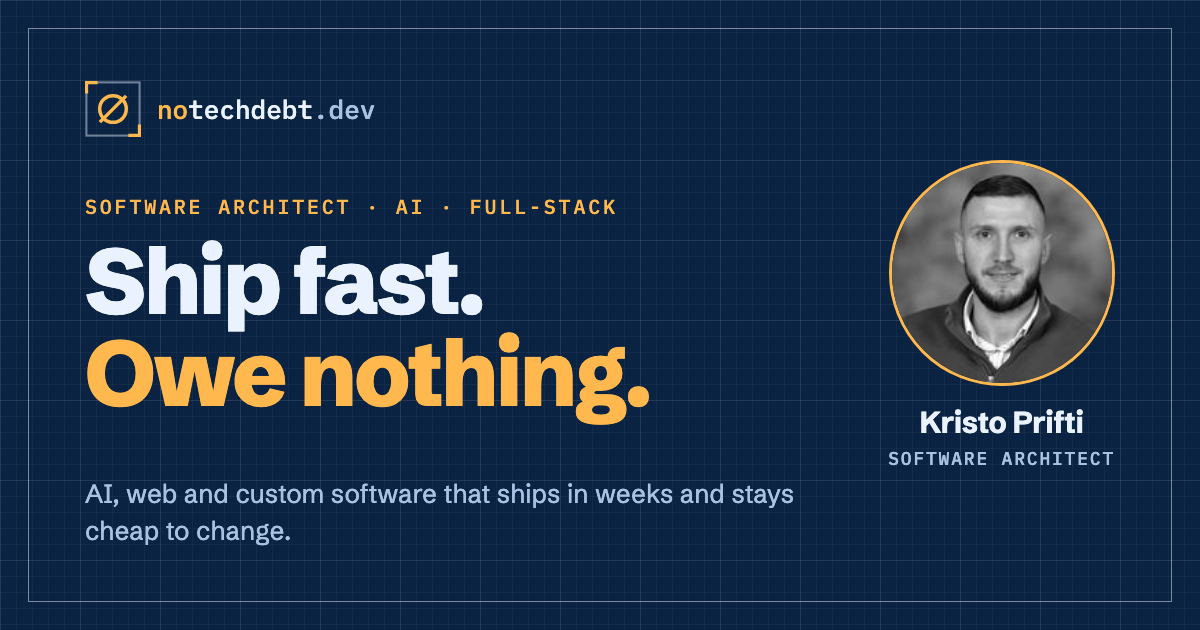
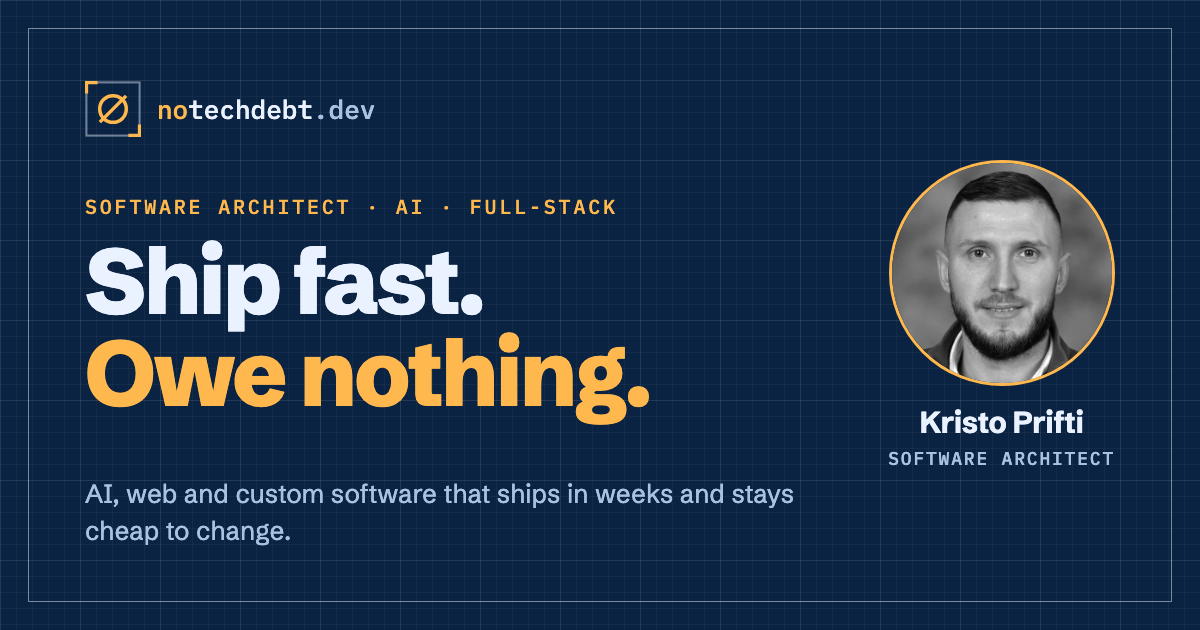
Rework About section, sharper portrait
- About: new heading, spec table (experience, role, built, works), two
  first-person paragraphs and four opinions under "Things I'll argue about"
- Person structured data gains a description and more skills
- New portrait in four sizes: 640x800 for About, 160 square for the hero
  byline, 512 square for structured data, and a regenerated social preview

Changed region(s): [[0.74, 0.2714, 0.925, 0.6032]]

diff --git a/index.html b/index.html
@@ -67,10 +67,11 @@
       "url": "https://notechdebt.dev/",
       "image": "https://notechdebt.dev/img/kristo-prifti.jpg",
       "jobTitle": "Software Architect",
+      "description": "Software architect with 12 years of hands-on and team-lead experience building SaaS and B2B platforms, AI features, e-commerce and payments, mobile apps, and rescuing legacy systems.",
       "worksFor": { "@id": "https://notechdebt.dev/#org" },
       "email": "mailto:kristo@notechdebt.dev",
       "sameAs": ["https://www.linkedin.com/in/kristoprifti/"],
-      "knowsAbout": ["Software architecture", "Technical debt", "Artificial intelligence", "Machine learning", "Full-stack web development", "MVP development", "Custom ERP software", "E-commerce", "three.js", "React", "Next.js", "Node.js", "Python", "PostgreSQL", "Search engine optimization"]
+      "knowsAbout": ["Software architecture", "Technical debt", "Artificial intelligence", "Machine learning", "Full-stack web development", "MVP development", "Custom ERP software", "SaaS platforms", "E-commerce", "Payments", "Mobile app development", "Legacy system modernization", "three.js", "React", "Next.js", "Node.js", "Python", "PostgreSQL", "Search engine optimization"]
     },
     {
       "@type": "Organization",
@@ -140,7 +141,7 @@
         <div style="display:flex;flex-direction:column;gap:26px">
           <span class="pill"><span class="dot"></span>AVAILABLE FOR NEW PROJECTS</span>
           <h1 class="h1">Ship fast. <span style="color:var(--acc)">Owe nothing.</span></h1>
-          <div class="byline"><img src="/img/kristo-prifti.jpg" width="160" height="160" alt="Kristo Prifti"><span><b>Kristo Prifti</b>Software architect. Refactoring the future, one less TODO at a time.</span></div>
+          <div class="byline"><img src="/img/kristo-prifti-160.jpg" width="160" height="160" alt="Kristo Prifti"><span><b>Kristo Prifti</b>Software architect. Refactoring the future, one less TODO at a time.</span></div>
           <p class="lede">Teams building AI products and custom software usually come to me with two questions: how should we build this, and why is it taking so long. I like answering both, and I'd rather show you a working version the next morning than talk about it.</p>
           <div style="display:flex;flex-wrap:wrap;gap:14px">
             <a class="btn btn-acc" href="#services">Work with me →</a>
@@ -354,15 +355,29 @@
   <section class="sec" id="about">
     <div class="wrap">
       <div class="sec-head" data-sr="up">
-        <div><span class="label">007 · ABOUT</span><h2 class="h2">The architect behind notechdebt.</h2></div>
+        <div><span class="label">007 · ABOUT</span><h2 class="h2">Twelve years of shipping. Still allergic to debt.</h2></div>
       </div>
       <div class="rule" data-sr="line"></div>
-      <div class="about" data-sr="up">
-        <img src="/img/kristo-prifti.jpg" width="160" height="160" alt="Portrait of Kristo Prifti" loading="lazy" decoding="async">
-        <div class="about-text">
-          <p>I'm Kristo Prifti, a software architect. I design and build AI products, web apps and custom business software, and I care about how they age as much as how fast they ship.</p>
-          <p>Since 2022 I've shipped nine products that are still live today: my own SaaS and AI tools, and the systems that run real businesses, from a custom ERP to an online store selling in two markets. Each one was built so its owners can change it without calling me.</p>
-          <p>notechdebt is how I work: proven technology, small modules, decisions made on real screens, and no rewrite a year later.</p>
+      <div class="about">
+        <div class="about-side" data-sr="up">
+          <img src="/img/kristo-prifti-portrait-320.webp" srcset="/img/kristo-prifti-portrait-320.webp 320w, /img/kristo-prifti-portrait.webp 640w" sizes="(max-width: 760px) 110px, 320px" width="640" height="800" alt="Portrait of Kristo Prifti, software architect" loading="lazy" decoding="async">
+          <dl class="about-spec">
+            <div><dt>EXPERIENCE</dt><dd>12 years</dd></div>
+            <div><dt>ROLE</dt><dd>Hands-on architect &amp; team lead</dd></div>
+            <div><dt>BUILT</dt><dd>SaaS &amp; B2B · AI · <span style="white-space:nowrap">E-commerce</span> &amp; payments · Mobile · Legacy rescue</dd></div>
+            <div><dt>WORKS</dt><dd>Remote, in English</dd></div>
+          </dl>
+        </div>
+        <div class="about-text" data-sr="up" data-d="1">
+          <p>I'm Kristo Prifti. I've spent twelve years building software for a living: SaaS and B2B platforms, AI features, online stores and payments, mobile apps, and more than a few legacy systems someone swore were "almost done". I still write code most days, and I've led the teams writing it, so I've been both the person creating tech debt and the person paying it off.</p>
+          <p>notechdebt is what came out of that. After enough rescues you see the pattern: projects rarely fail because the code was hard. They fail because every shortcut was borrowed against the future and nobody kept the receipts. So I build the boring way, fast, and leave things in a state your next developer will thank me for. Or at least won't curse me for.</p>
+          <h3 class="about-h">THINGS I'LL ARGUE ABOUT</h3>
+          <ul class="opinions">
+            <li><b>Most microservices are an org chart, not an architecture.</b><span>If one team owns it, one well-structured codebase is faster to build, test and change.</span></li>
+            <li><b>Senior engineers delete more code than they write.</b><span>The best refactor is often removing the feature nobody uses.</span></li>
+            <li><b>AI is a feature, not a strategy.</b><span>Put it where it removes real manual work. Everywhere else it's an expensive demo.</span></li>
+            <li><b>"We'll clean it up later" is a payment plan with no end date.</b><span>Later never comes. Interest does.</span></li>
+          </ul>
         </div>
       </div>
     </div>

diff --git a/assets/site.css b/assets/site.css
@@ -200,11 +200,21 @@ img{max-width:100%}
 .faq-q{margin:0;font-weight:800;font-size:clamp(20px,2vw,24px);line-height:1.2;letter-spacing:-.02em;text-wrap:balance}
 .rulecard .rsub a,.about-text a{color:var(--ink);text-decoration:underline;text-decoration-color:var(--acc);text-underline-offset:3px}
 .rulecard .rsub a:hover,.about-text a:hover{color:var(--acc)}
-.about{display:grid;grid-template-columns:auto minmax(0,1fr);gap:clamp(24px,4vw,48px);align-items:start}
-.about img{width:clamp(96px,14vw,160px);height:auto;aspect-ratio:1;object-fit:cover;border:1.5px solid var(--acc)}
+.about{display:grid;grid-template-columns:minmax(240px,320px) minmax(0,1fr);gap:clamp(32px,5vw,72px);align-items:start}
+.about-side{display:flex;flex-direction:column;gap:18px}
+.about-side img{display:block;width:100%;height:auto;aspect-ratio:4/5;object-fit:cover;border:1.5px solid var(--acc)}
+.about-spec{margin:0;border-top:1.5px solid var(--line);border-left:1.5px solid var(--line)}
+.about-spec div{display:flex;flex-direction:column;gap:6px;padding:14px 16px;border-right:1.5px solid var(--line);border-bottom:1.5px solid var(--line)}
+.about-spec dt{font-family:var(--mono);font-size:10px;letter-spacing:.14em;color:var(--muted)}
+.about-spec dd{margin:0;font-weight:700;font-size:16px;line-height:1.45}
 .about-text{max-width:720px;display:flex;flex-direction:column;gap:16px}
 .about-text p{margin:0;font-size:18px;line-height:1.6;color:#C9D9EE}
-@media (max-width:560px){.about{grid-template-columns:1fr}}
+.about-h{margin:20px 0 4px;font-family:var(--mono);font-weight:500;font-size:12px;letter-spacing:.14em;color:var(--acc)}
+.opinions{margin:0;padding:0;list-style:none;display:flex;flex-direction:column;gap:20px}
+.opinions li{display:flex;flex-direction:column;gap:6px;padding-left:18px;border-left:2px solid var(--acc)}
+.opinions b{font-weight:800;font-size:clamp(19px,1.8vw,22px);line-height:1.25;letter-spacing:-.02em}
+.opinions span{font-size:16px;line-height:1.55;color:var(--muted)}
+@media (max-width:760px){.about{grid-template-columns:1fr}.about-side{display:grid;grid-template-columns:110px minmax(0,1fr);align-items:start;gap:16px}.about-side img{width:110px}}
 
 /* footer case-study links + breadcrumbs */
 .footwork{display:flex;flex-wrap:wrap;align-items:center;gap:8px 22px;padding:0 0 28px;font-family:var(--mono);font-size:12px;letter-spacing:.04em;color:var(--muted)}
